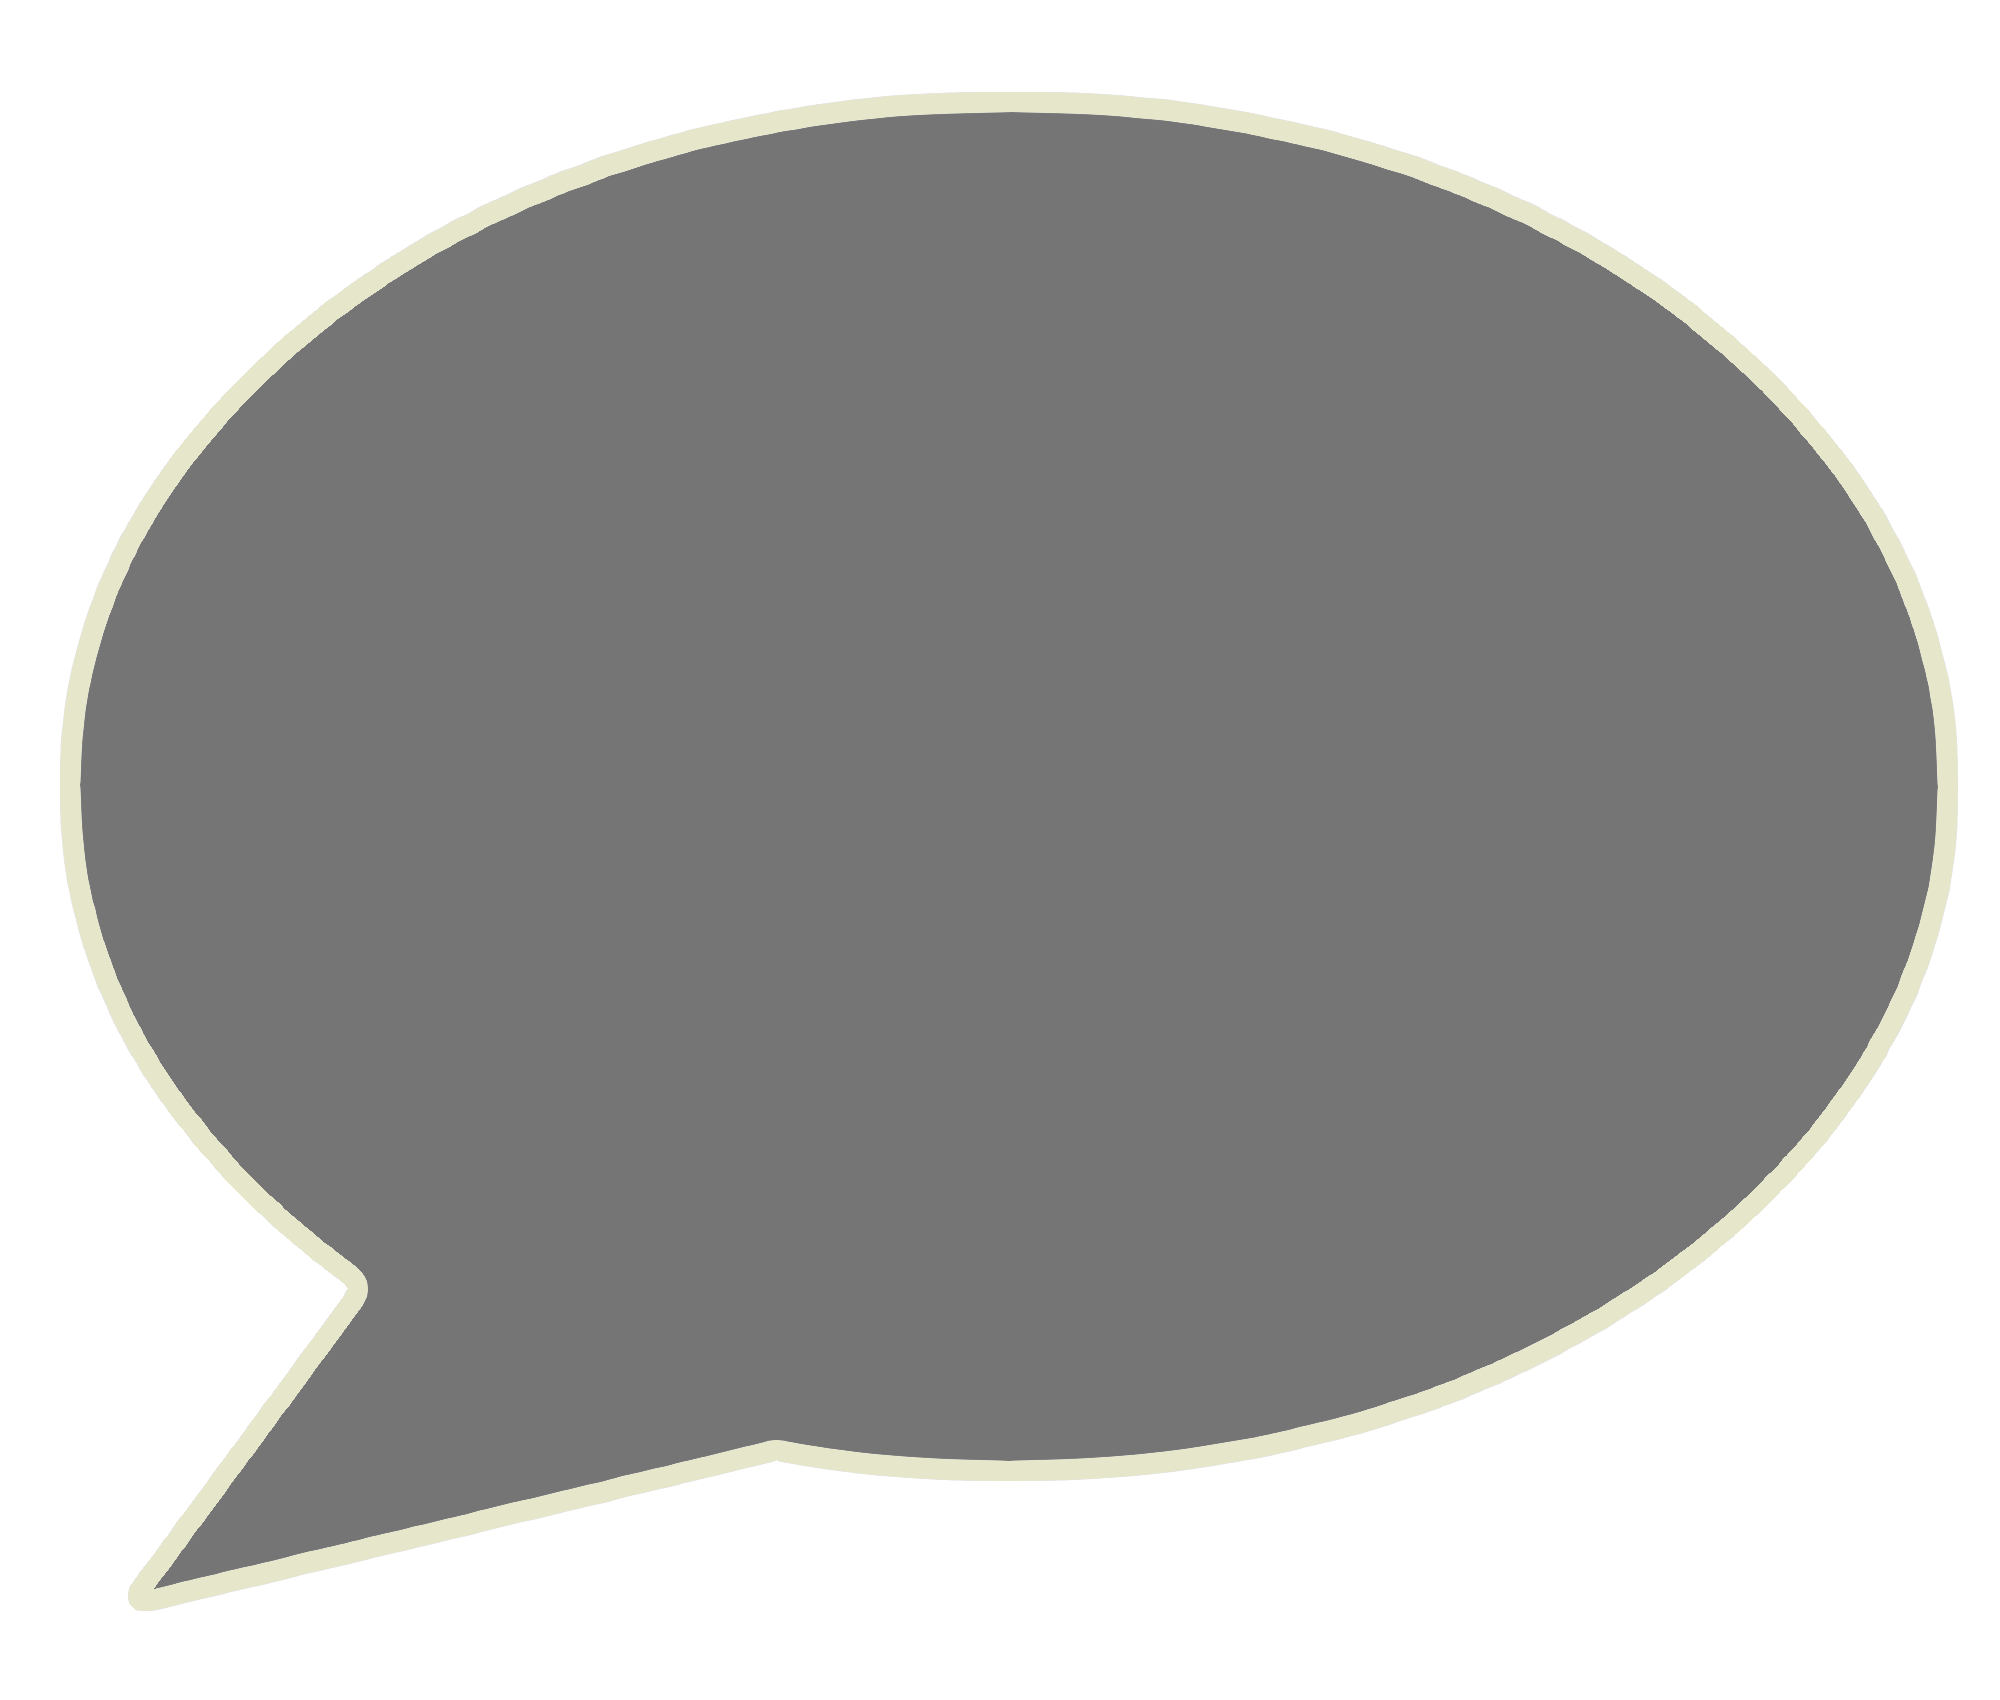
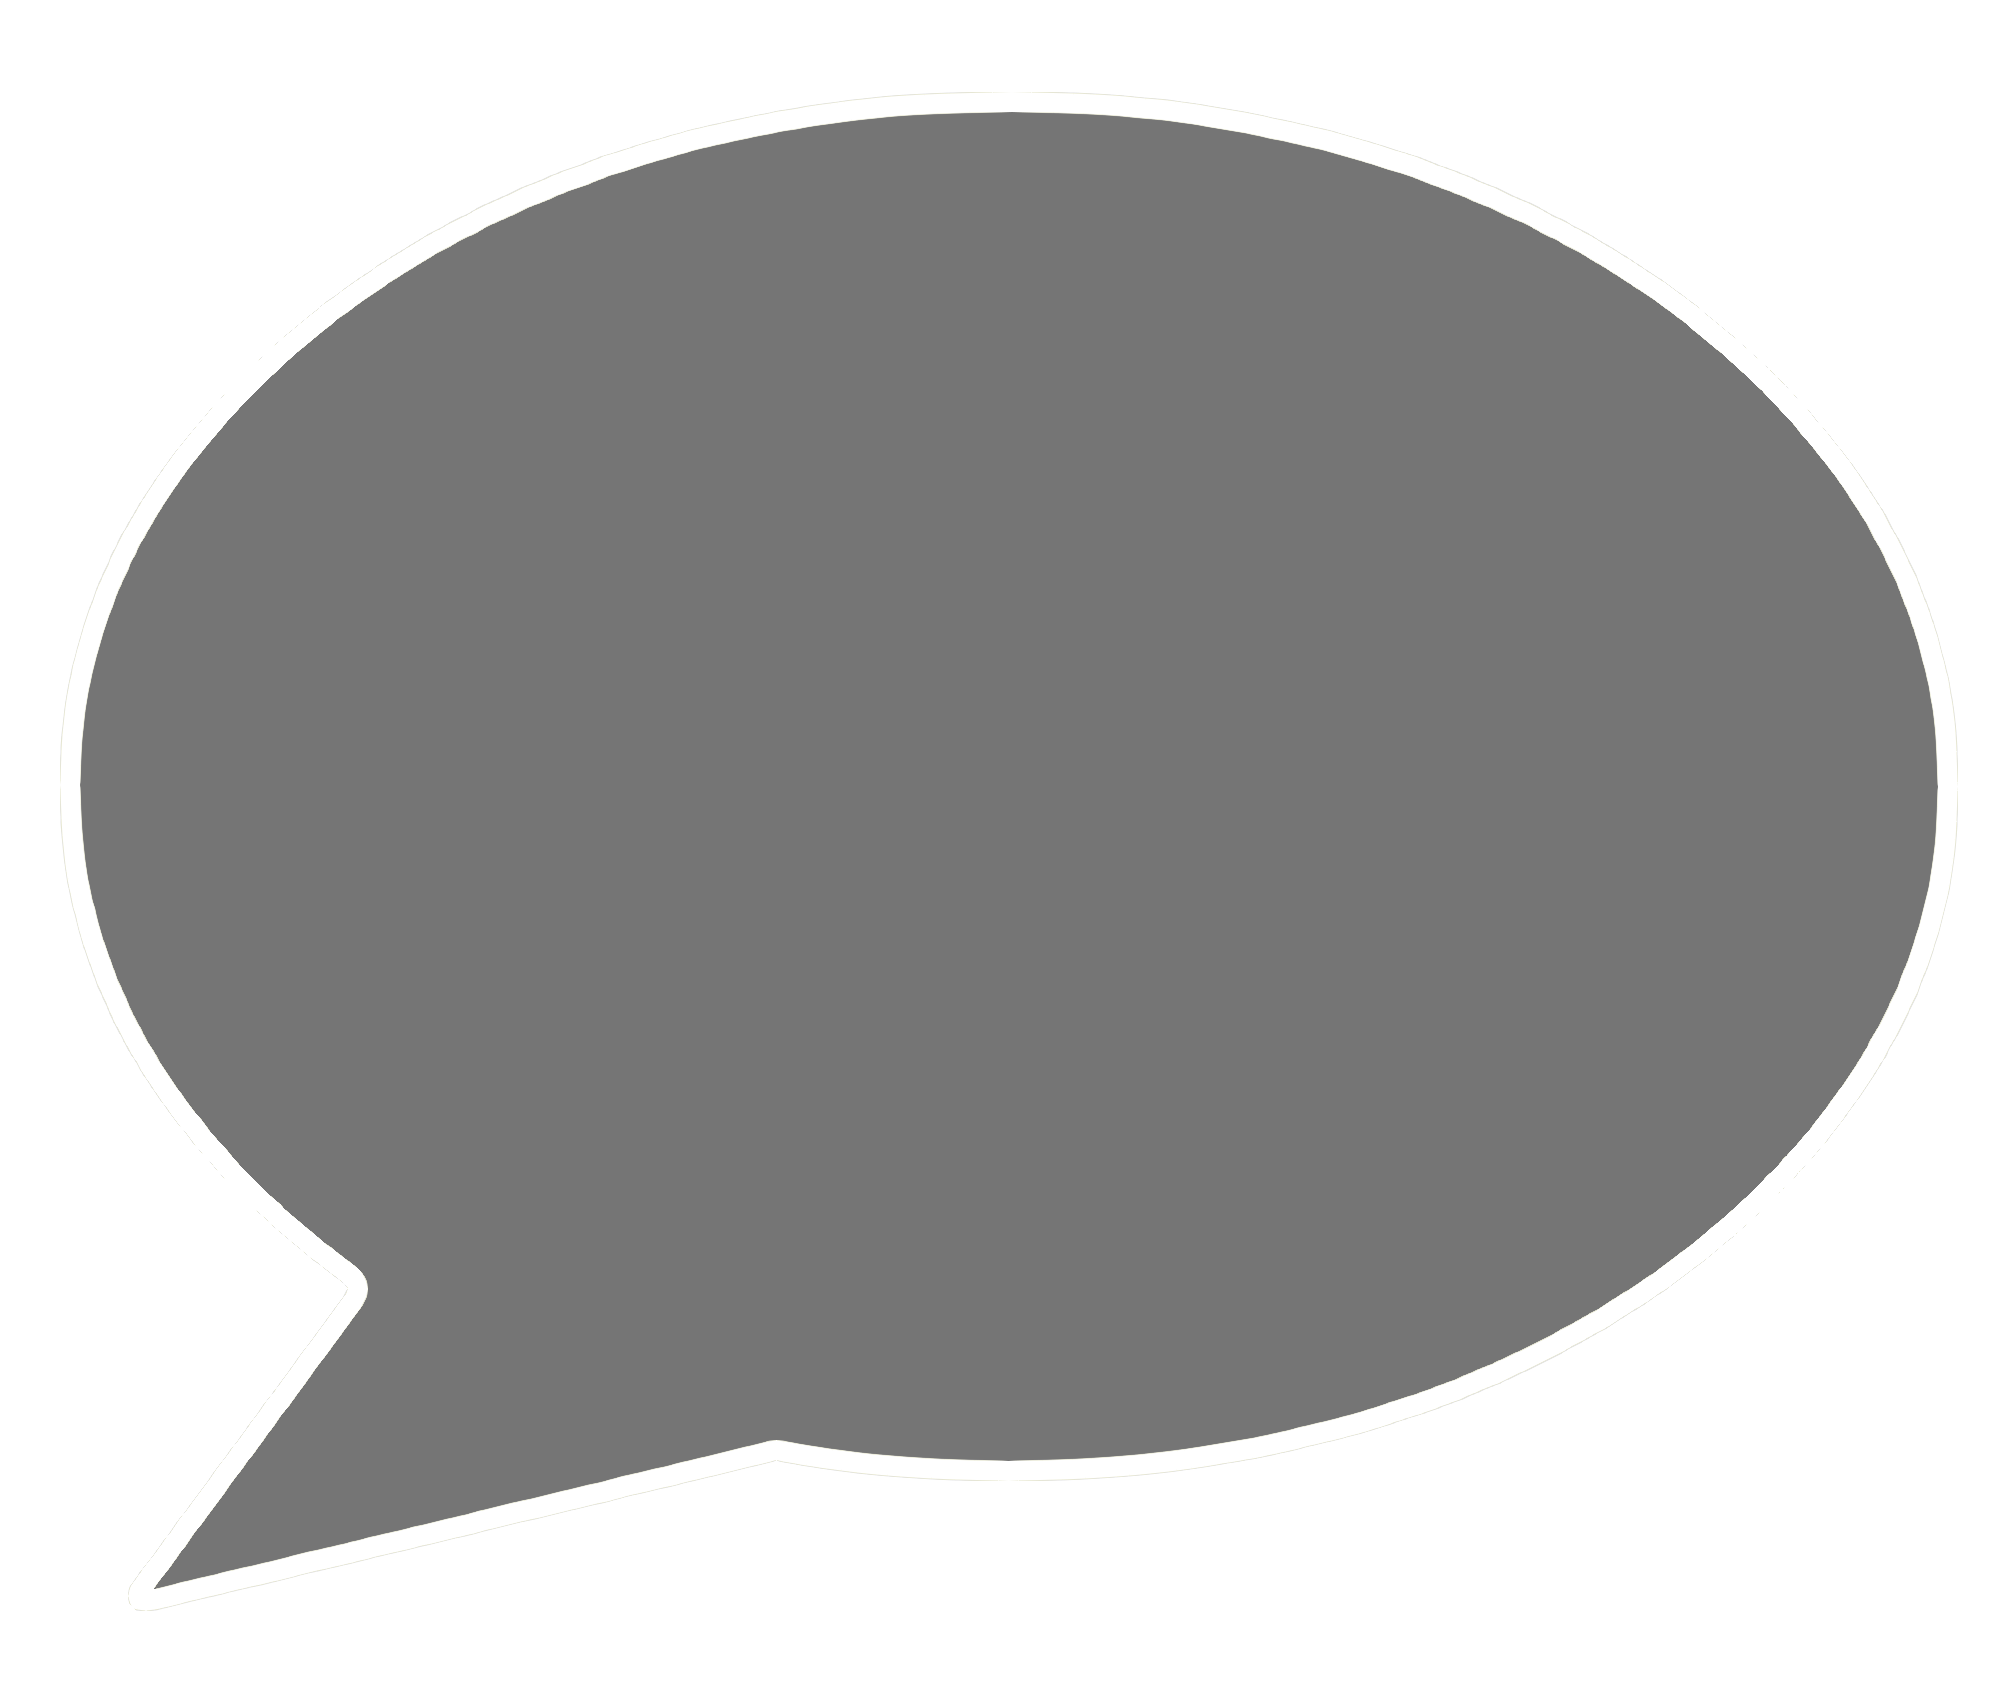
fost2

diff --git a/docs/index.html b/docs/index.html
@@ -22,12 +22,12 @@ body {
   font-family: 'futura';
 }
 a {
-  color: #ddddb9;
+  color: #ffffff;
   text-decoration: none;
   transition-duration: .5s;
 }
 a:hover {
-  color: #fff700;
+  color: #ffff00;
 }
 /* Hide default audio controls */
 .fostmp3s {
@@ -68,6 +68,7 @@ a:hover {
   -webkit-text-stroke: .7px #000000;
 }
 .totallistensnumber {
+  margin: 2px auto;
   height: 13px;
   line-height: 13px;
   font-size: 12px;
@@ -77,7 +78,6 @@ a:hover {
   border-radius: 3px;
   padding: 2px;
   width: fit-content;
-  margin: 2px;
   text-align: center;
 }
 .totallistenssup {
@@ -232,7 +232,7 @@ audio {
   background-position: center center;
   background-size: contain;
   border: double 5px #474747;
-  background-color: #ddddb9;
+  background-color: #ffffff;
 }
 /* PasswordUnlockBar */
 .PasswordUnlockBar {
@@ -401,7 +401,7 @@ audio {
   word-wrap: break-word;
 }
 .playcountframe {
-  color: #ddddb9;
+  color: #ffffff;
   font-style: italic;
   font-size: 12px;
   position: absolute;
@@ -1404,11 +1404,9 @@ The views expressed by Foster Lancaster do not necessarily reflect Fost Records,
 
 
 <div style="left: 50%; transform: translateX(-50%); position: absolute;">
-
 <div class="totallistensnumber totalPlayCount">?</div>
 <div class="totallistens">Listeners</div>
-
-</div> 
+</div>
 
 </a>
 </div>
